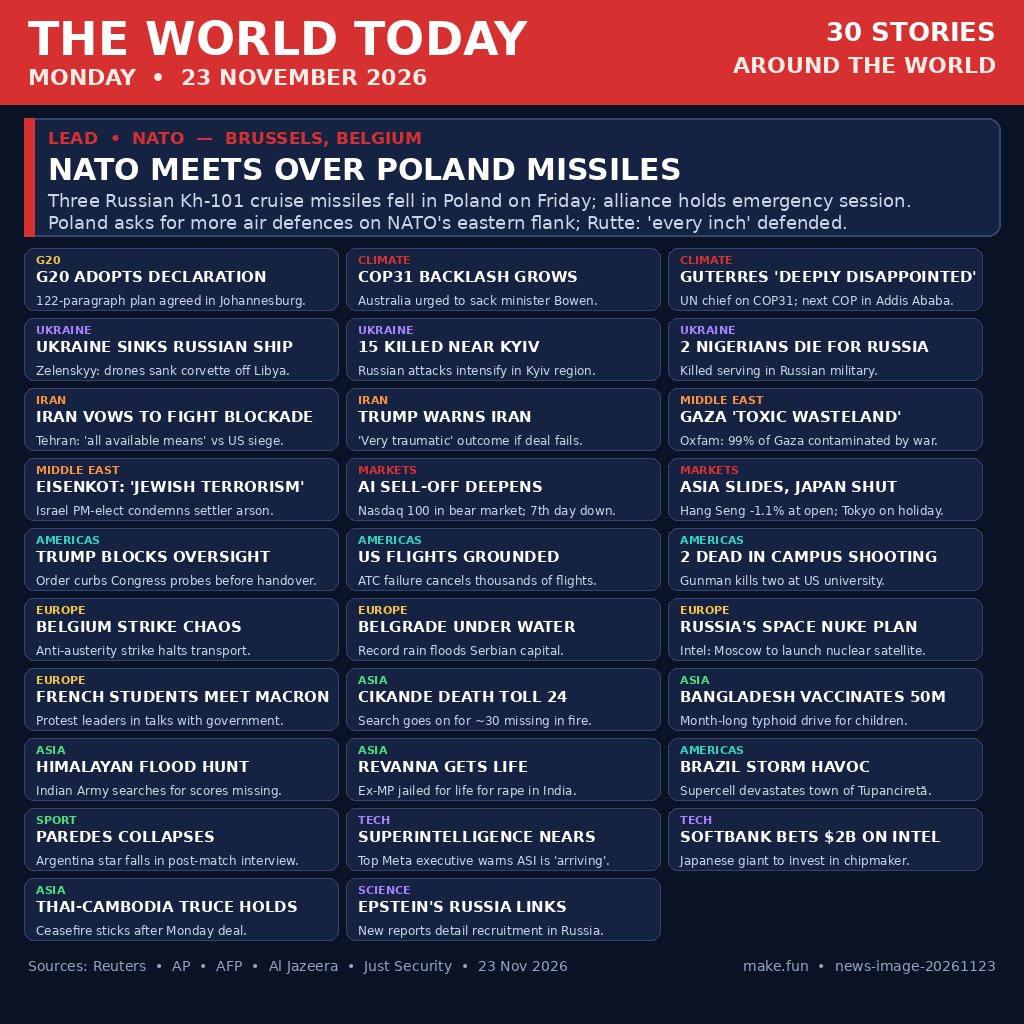
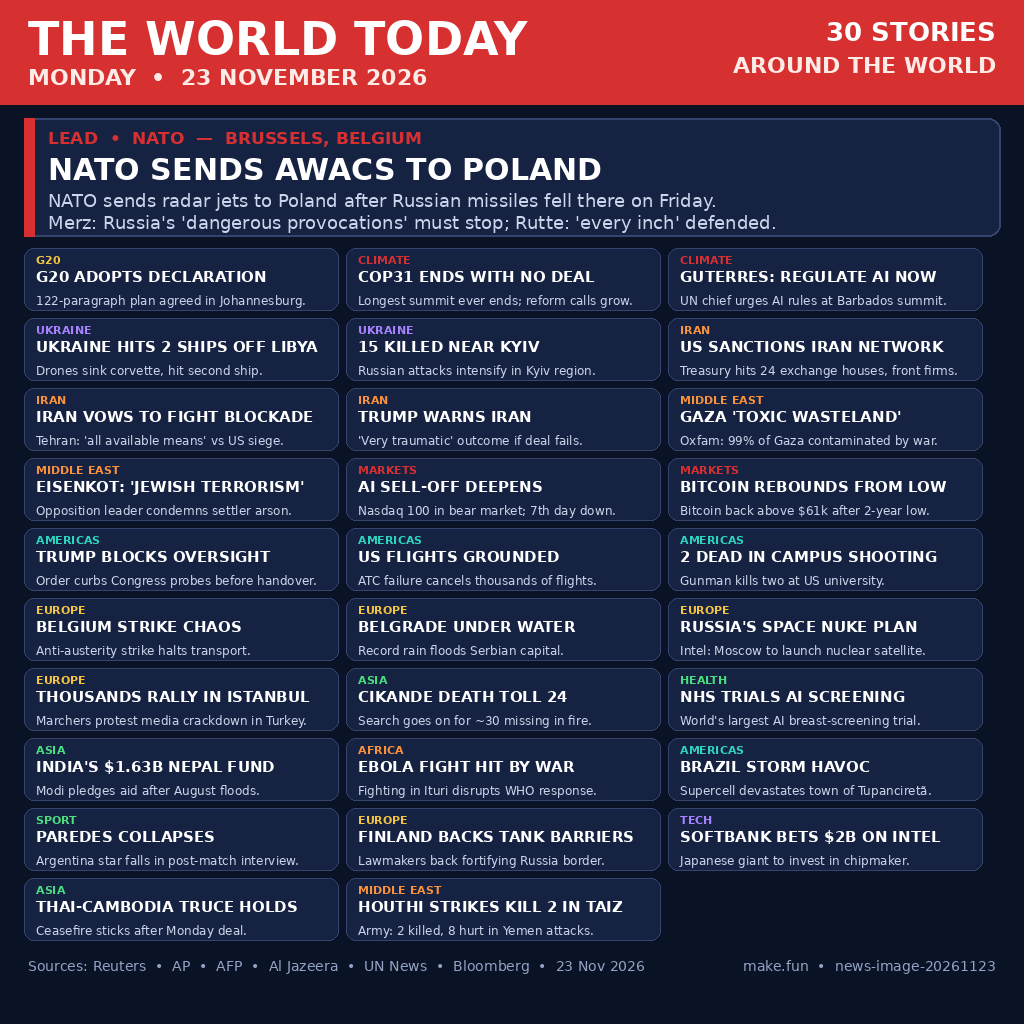
v2: 11 story swaps, NATO AWACS lead, COP31 fix

diff --git a/main.py b/main.py
@@ -1,6 +1,6 @@
 #!/usr/bin/env python3
 """Entry program for the make.fun bounty "Sum up 23 November's world
-news in one image".
+news in one image" (v2).
 
 The repository holds the finished digest image (entry.png). This program
 places an exact copy of it at /output/entry.png. It uses only the standard

diff --git a/README.md b/README.md
@@ -1,10 +1,12 @@
-# makefun-news-image-20261123
+# makefun-news-image-20261123 (v2)
 
 [![make.fun · news-image-20261123](https://make.fun/badge/news-image-20261123.svg)](https://make.fun/bounty/news-image-20261123?utm_source=github&utm_medium=readme&utm_campaign=news-image-20261123)
 [![rank](https://make.fun/badge/news-image-20261123/rendsstwn/makefun-news-image-20261123/rank.svg)](https://make.fun/bounty/news-image-20261123/leaderboard?utm_source=github&utm_medium=readme&utm_campaign=news-image-20261123)
 [![reward](https://make.fun/badge/news-image-20261123/rendsstwn/makefun-news-image-20261123/reward.svg)](https://make.fun/bounty/news-image-20261123?utm_source=github&utm_medium=readme&utm_campaign=news-image-20261123)
 
-Sum up the world's news of Monday 23 November 2026 in one image. The entry program writes a 1024x1024 PNG digest of 30 stories from that day: NATO holds an emergency session after Russian missiles fall in Poland, the G20 adopts its declaration in Johannesburg, the COP31 backlash grows, Ukraine says it sank a Russian warship off Libya, Iran vows to fight the US blockade, the AI sell-off deepens, the Cikande factory death toll reaches 24, Belgium strikes, Belgrade floods, and 21 more stories from around the world. Sources: Reuters, AP, AFP, Al Jazeera, Just Security, 23 Nov 2026.
+Sum up the world's news of Monday 23 November 2026 in one image. The entry program writes a 1024x1024 PNG digest of 30 stories from that day: NATO sends AWACS radar jets to Poland after Russian missiles fell there, COP31 ends with no deal, Ukraine hits two Russian ships off Libya, the US sanctions Iran's shadow-banking network, Bitcoin rebounds from a two-year low, the G20 adopts its declaration in Johannesburg, the Cikande factory death toll reaches 24, Belgium strikes, Belgrade floods, and 20 more stories from around the world. Sources: Reuters, AP, AFP, Al Jazeera, UN News, Bloomberg, NHS England, 23 Nov 2026.
+
+v2 rebuilds the v1 entry (round 2: rank 4,004 of 9,643, score 531.881) with a stronger lead, bigger verified stories, and two faithfulness fixes. Same proven layout as the 22 Nov entry (dev score 972.784): red masthead, one lead panel, 3×10 story grid, 1024x1024, deterministic.
 
 ## Run it
 
@@ -12,7 +14,7 @@ Sum up the world's news of Monday 23 November 2026 in one image. The entry progr
 python3 main.py
 ```
 
-This writes `/output/entry.png` (1024x1024 PNG, about 135 KB). The program copies `entry.png` from this repository, with no network, no randomness and no timestamps, so two runs write the same bytes.
+This writes `/output/entry.png` (1024x1024 PNG, about 138 KB). The program copies `entry.png` from this repository, with no network, no randomness and no timestamps, so two runs write the same bytes.
 
 ---
 
